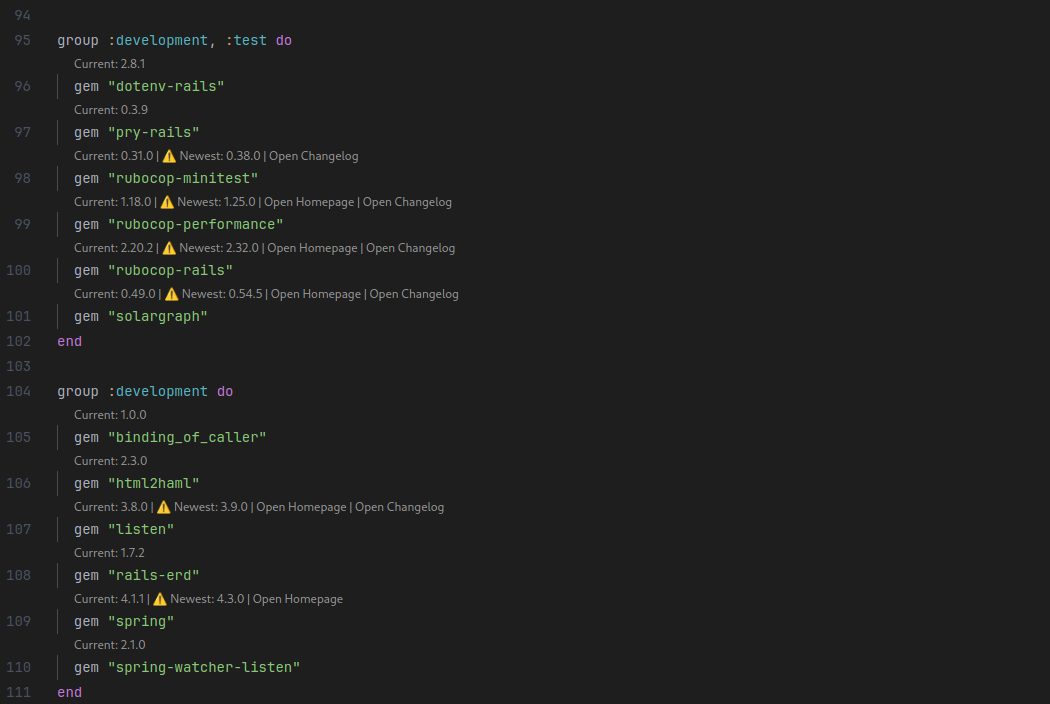
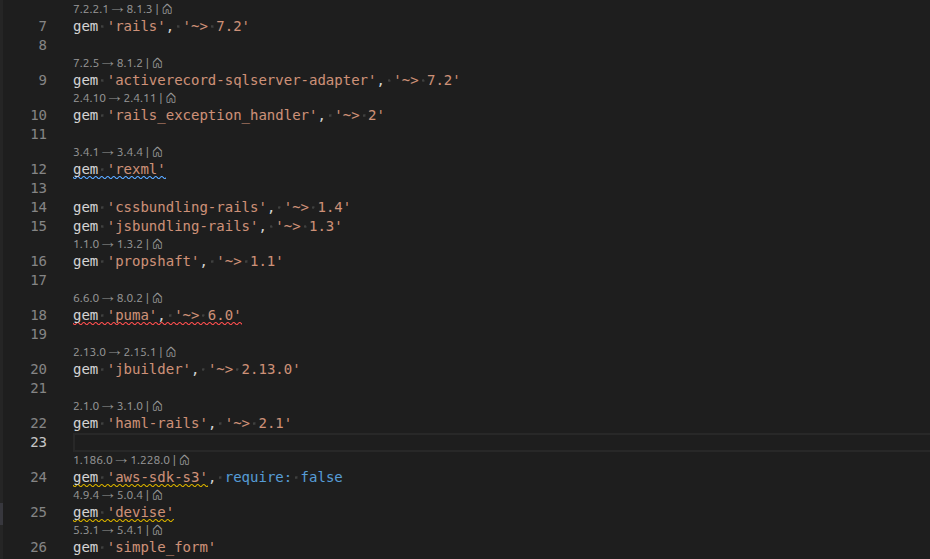
docs: refresh README and add hover + syntax highlighting images

diff --git a/README.md b/README.md
@@ -10,9 +10,8 @@
 
 ## Features
 
-- Shows the installed version of each gem directly above its declaration
-- Highlights when a newer version is available
-- Quick links to the gem's homepage and changelog (when available)
+- Highlights outdated gems with a compact `installed → newest` Code Lens above the declaration (click it to open the changelog, plus a home icon for the homepage)
+- Hover any gem for the full detail — installed and latest versions, homepage/changelog links, and known vulnerabilities
 - Version caching for optimized performance
 - Automatically detects when the Gemfile is saved and updates information
 - Scans your `Gemfile.lock` for known vulnerabilities with [bundler-audit](https://github.com/rubysec/bundler-audit) and reports them in the Problems panel and a rendered report
@@ -39,7 +38,11 @@ Alternatively, you can install this extension directly from the [Visual Studio C
 
 This extension activates automatically when you open a Gemfile. It parses the file content to identify gem declarations and then runs a Ruby script that fetches the latest available version information using Bundler.
 
-To keep the file readable, only **outdated** gems get a Code Lens by default. Each one shows a compact `installed → newest` (click it to open the changelog) plus a home icon for the gem's homepage. **Hover** any gem to see the full detail — installed and latest versions and links — including for gems that are already up to date. Set `gemfileVersionLens.showUpToDate` to `true` if you'd rather see a lens on every gem.
+To keep the file readable, only **outdated** gems get a Code Lens by default. Each one shows a compact `installed → newest` (click it to open the changelog) plus a home icon for the gem's homepage. Set `gemfileVersionLens.showUpToDate` to `true` if you'd rather see a lens on every gem.
+
+**Hover** any gem to see the full detail — installed and latest versions, homepage/changelog links, and any known vulnerabilities affecting the installed version — including for gems that are already up to date.
+
+![Gem hover with version detail and advisories](https://github.com/wilfison/gemfile-version-lens/raw/HEAD/images/hover.png)
 
 ## Vulnerability scanning
 
@@ -55,6 +58,12 @@ Notes:
 - The advisory database ([ruby-advisory-db](https://github.com/rubysec/ruby-advisory-db)) is downloaded on first use and refreshed (via `git`) once per session. This runs entirely on your machine.
 - To silence advisories you have reviewed and accepted, use a [`.bundler-audit.yml`](https://github.com/rubysec/bundler-audit#configuration-file) ignore list in your project — it is honored automatically.
 - Because the scan runs Ruby on open, it only runs in [trusted workspaces](https://code.visualstudio.com/docs/editor/workspace-trust).
+
+## Gemfile.lock syntax highlighting
+
+The extension ships a dedicated grammar for `Gemfile.lock`, so the lockfile is no longer shown as plain text. Section headers (`GEM`/`GIT`/`PATH`/`PLATFORMS`/`DEPENDENCIES`/`CHECKSUMS`/…), gem names, versions, version-constraint operators (`~>`, `>=`, `<`), `remote:` URLs, pinned-source markers (`!`), and `sha256` checksums are all colorized.
+
+![Gemfile.lock syntax highlighting](https://github.com/wilfison/gemfile-version-lens/raw/HEAD/images/syntax_highlighting.png)
 
 ## Extension Settings
 
